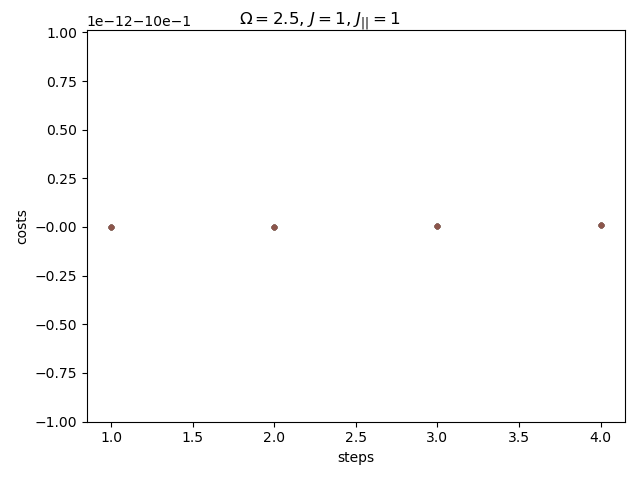
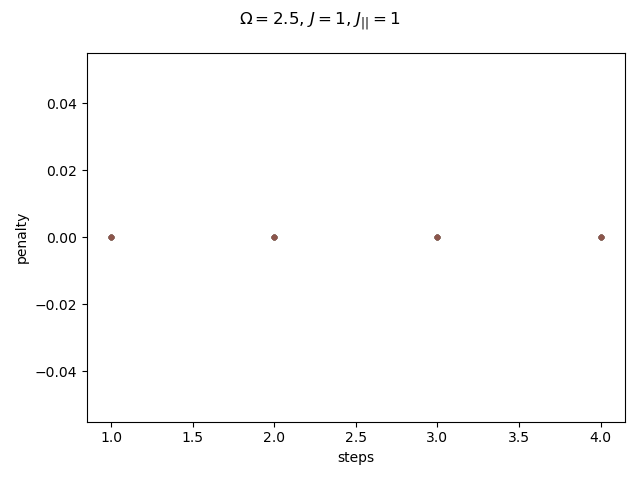
update

diff --git a/plotters.py b/plotters.py
@@ -24,14 +24,14 @@ def qiskit_cost_plotter(ls, costs, omega, J, JII):
         locs = np.where(ls[:,0]==n)
         try:
             axs[idx].plot(ls[locs][:,1], costs[locs],'.')
-            axs[idx].set_xlabel(f'layer {n[0]} steps')
+            axs[idx].set_xlabel(f'layer {n[0]} state')
             axs[idx].set_ylabel('penalty')
         except TypeError:
             axs.plot(ls[locs][:,1], costs[locs],'.')
-            axs.set_xlabel('steps')
+            axs.set_xlabel('state')
             axs.set_ylabel('costs')
-    fig2.tight_layout()
     fig2.suptitle(f'$\\Omega={omega}$, $J={J}$, $J_{{||}}={JII}$')
+    fig2.tight_layout()
 
 def qiskit_penalty_plotter(ls, costs, omega, J, JII):
     fig3, axs = plt.subplots(np.unique(ls[:,0]).size,1) # number of layers is determined
@@ -39,11 +39,11 @@ def qiskit_penalty_plotter(ls, costs, omega, J, JII):
         locs = np.where(ls[:,0]==n)
         try:
             axs[idx].plot(ls[locs][:,1], costs[locs],'.')
-            axs[idx].set_xlabel(f'layer {n[0]} steps')
+            axs[idx].set_xlabel(f'layer {n[0]} state')
             axs[idx].set_ylabel('penalty')
         except TypeError:
             axs.plot(ls[locs][:,1], costs[locs],'.')
-            axs.set_xlabel('steps')
+            axs.set_xlabel('state')
             axs.set_ylabel('penalty')
-    fig3.tight_layout()
     fig3.suptitle(f'$\\Omega={omega}$, $J={J}$, $J_{{||}}={JII}$')
+    fig3.tight_layout()

diff --git a/optimiser.py b/optimiser.py
@@ -73,7 +73,11 @@ def optimiser_main(B, num_rungs = 1, layers = [1]):
             
     
             # ϵ2 += convergence_parameter(ansatz, prev_opt_parameters, U_T)
-            floquet_state = Statevector.from_instruction(ansatz.assign_parameters(prev_opt_parameters))
+            curr_state = ansatz.assign_parameters(prev_opt_parameters)
+            
+            prev_states.append(curr_state)
+            
+            floquet_state = Statevector.from_instruction(curr_state)
             eigenvalues.append(-h_cut*np.angle(floquet_state.expectation_value(U_T))/T)
             costs.append(cost)
             layer_step.append([num_layers, step])

diff --git a/main.py b/main.py
@@ -1,5 +1,9 @@
 import matplotlib.pyplot as plt
 import numpy as np
+from information import determine_next_filename
+from physics import Ω as omega
+from physics import J, JII, B_range, num_rungs, num_layers, num_qubits
+from plotters import *
 
 if __name__=="__main__":
     fig, ax = plt.subplots()
